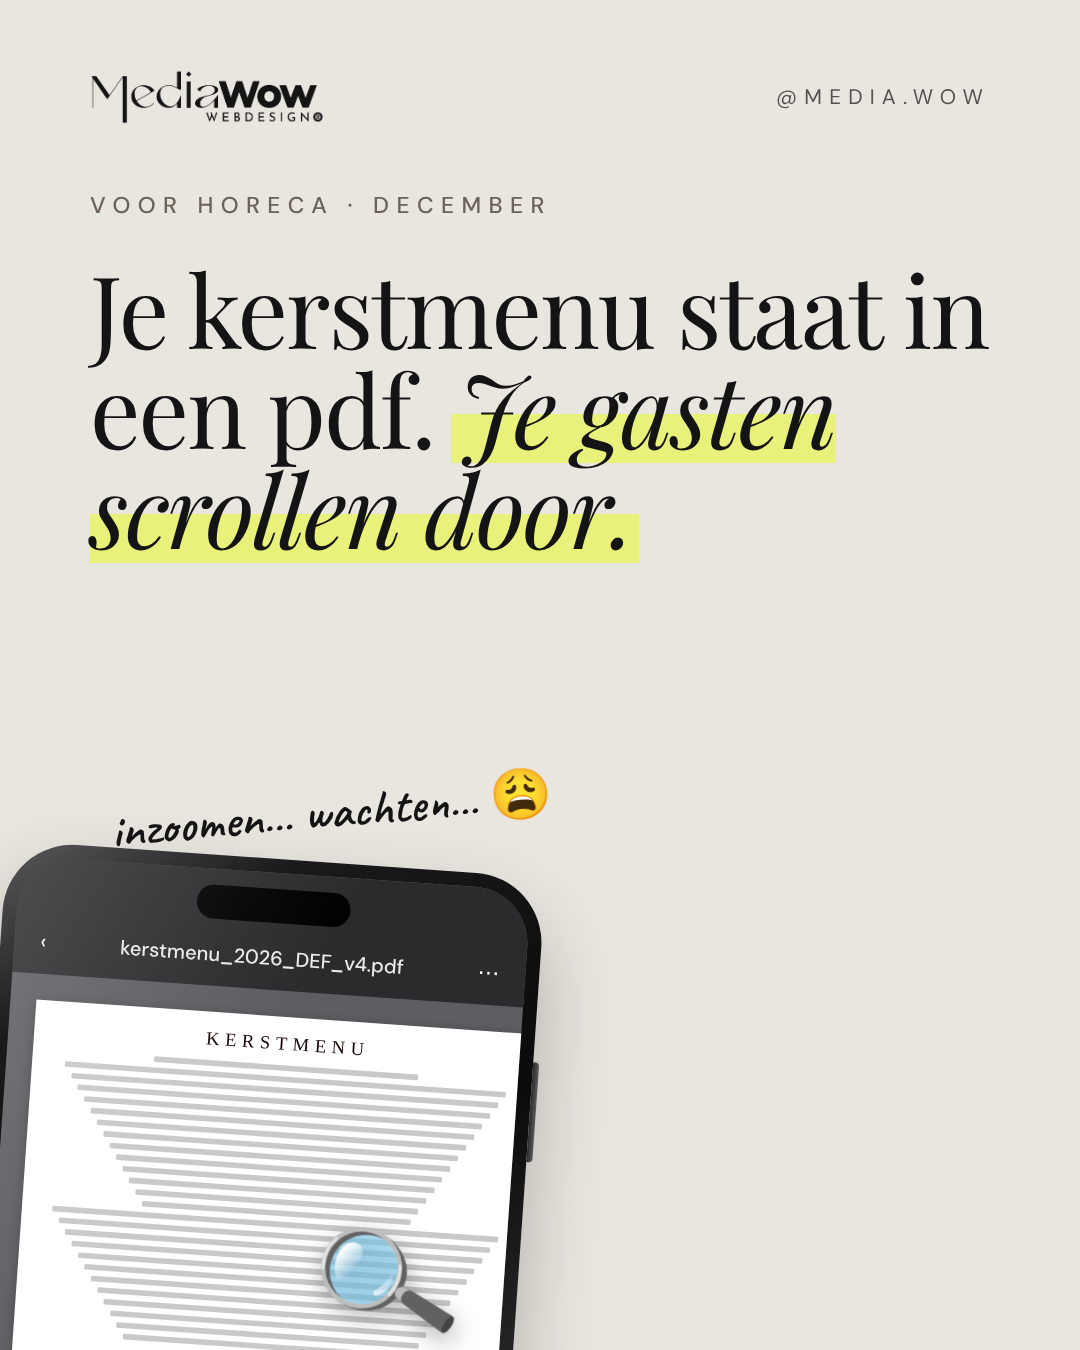
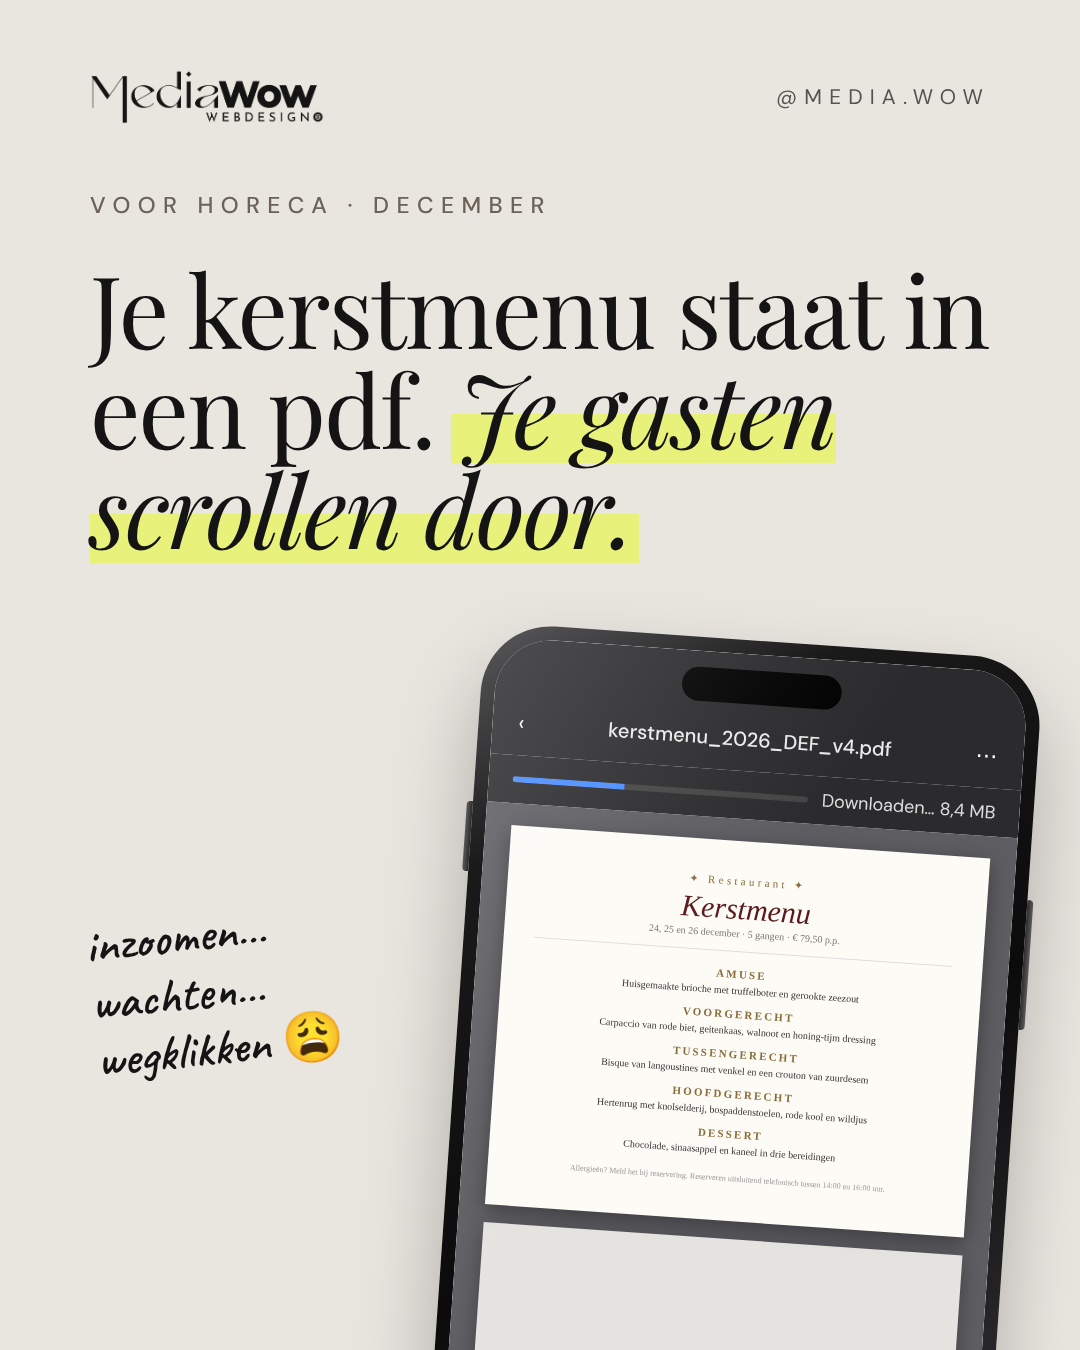
Week 2 Monday: realistic PDF menu on phone
Claude-Session: https://claude.ai/code/session_01RBQ5c9Pv2G8CobvSf5vDwJ

Changed region(s): [[0.0, 0.4667, 0.9778, 1.0], [0.6111, 0.7156, 0.7333, 0.8711]]

diff --git a/instagram/slides-week2.js b/instagram/slides-week2.js
@@ -13,12 +13,23 @@ module.exports = [
         <h1 class="hero">Je kerstmenu staat in een pdf. <em><span class="mark">Je gasten scrollen door.</span></em></h1>
         ${phone(`
           <div class="pdf-bar"><span>‹</span><b>kerstmenu_2026_DEF_v4.pdf</b><span>⋯</span></div>
-          <div class="pdf-page">
-            <div class="pdf-title">KERSTMENU</div>
-            <div class="pdf-lines">${tinyLines(26)}</div>
+          <div class="pdf-load"><div class="pl-bar"><i></i></div><span>Downloaden… 8,4 MB</span></div>
+          <div class="pdf-view">
+            <div class="menu-page">
+              <div class="mp-top">✦ Restaurant ✦</div>
+              <div class="mp-title">Kerstmenu</div>
+              <div class="mp-sub">24, 25 en 26 december · 5 gangen · € 79,50 p.p.</div>
+              <div class="mc"><b>Amuse</b><span>Huisgemaakte brioche met truffelboter en gerookte zeezout</span></div>
+              <div class="mc"><b>Voorgerecht</b><span>Carpaccio van rode biet, geitenkaas, walnoot en honing-tijm dressing</span></div>
+              <div class="mc"><b>Tussengerecht</b><span>Bisque van langoustines met venkel en een crouton van zuurdesem</span></div>
+              <div class="mc"><b>Hoofdgerecht</b><span>Hertenrug met knolselderij, bospaddenstoelen, rode kool en wildjus</span></div>
+              <div class="mc"><b>Dessert</b><span>Chocolade, sinaasappel en kaneel in drie bereidingen</span></div>
+              <div class="mp-foot">Allergieën? Meld het bij reservering. Reserveren uitsluitend telefonisch tussen 14:00 en 16:00 uur.</div>
+            </div>
+            <div class="menu-page faint"></div>
           </div>
-          <div class="pinch">🔍</div>`, 'phone-low')}
-        <div class="hand" style="position:absolute;left:110px;top:780px;transform:rotate(-5deg)">inzoomen… wachten… 😩</div>` },
+          <div class="pdf-pager">1 / 4</div>`, 'phone-pdf')}
+        <div class="hand" style="position:absolute;left:90px;top:900px;width:330px;transform:rotate(-6deg);line-height:1.15">inzoomen…<br>wachten…<br>wegklikken 😩</div>` },
       { theme: 'dark', html: `
         <div class="kicker">01 — Wat er gebeurt</div>
         <h1 class="lg">Inzoomen. Wachten. Scrollen. <em>Wegklikken.</em></h1>

diff --git a/instagram/build.js b/instagram/build.js
@@ -314,6 +314,21 @@ em{font-style:italic}
 .np-h{font-family:Caveat;font-weight:600;font-size:40px;color:#6b6258;margin-bottom:6px}
 .np-i{display:flex;gap:22px;align-items:center;font-family:Caveat;font-weight:600;font-size:52px;line-height:70px;color:#141414}
 .cb{flex:0 0 38px;height:38px;border:3px solid #141414;border-radius:6px;background:#E8F27A}
+.pdf-load{display:flex;align-items:center;gap:14px;padding:12px 24px;background:#2b2b2e;color:#ddd;font-size:18px}
+.pl-bar{flex:1;height:6px;border-radius:4px;background:#444;overflow:hidden}.pl-bar i{display:block;width:38%;height:100%;background:#4a8cff}
+.pdf-view{background:#5d5d62;padding:22px 26px;height:100%}
+.menu-page{background:#fdfbf6;padding:30px 26px 34px;box-shadow:0 6px 20px rgba(0,0,0,.35);font-family:'Times New Roman',serif;color:#333;margin-bottom:18px}
+.menu-page.faint{height:300px;opacity:.85}
+.mp-top{text-align:center;font-size:11px;letter-spacing:.3em;color:#8a6d3b}
+.mp-title{text-align:center;font-size:30px;font-style:italic;margin:4px 0 2px;color:#5a1a1a}
+.mp-sub{text-align:center;font-size:10px;color:#777;margin-bottom:16px;border-bottom:1px solid #ddd;padding-bottom:12px}
+.mc{margin:10px 0;text-align:center}.mc b{display:block;font-size:11px;letter-spacing:.2em;text-transform:uppercase;color:#8a6d3b}.mc span{font-size:10px;line-height:1.4}
+.mp-foot{margin-top:16px;font-size:8px;color:#999;text-align:center}
+.pdf-pager{position:absolute;right:24px;bottom:140px;background:rgba(0,0,0,.6);color:#fff;font-size:18px;padding:6px 14px;border-radius:14px}
+.phone-pdf{position:absolute;right:70px;top:640px;width:560px;height:1000px;transform:rotate(4deg)}
+.s:has(.phone-pdf){justify-content:flex-start;padding-top:190px}
+.s:has(.phone-pdf) .ftr{display:none}
+.phone-pdf .menu-page{padding:34px 30px 38px}
 `;
 
 function slideHTML(sl, i, n) {
